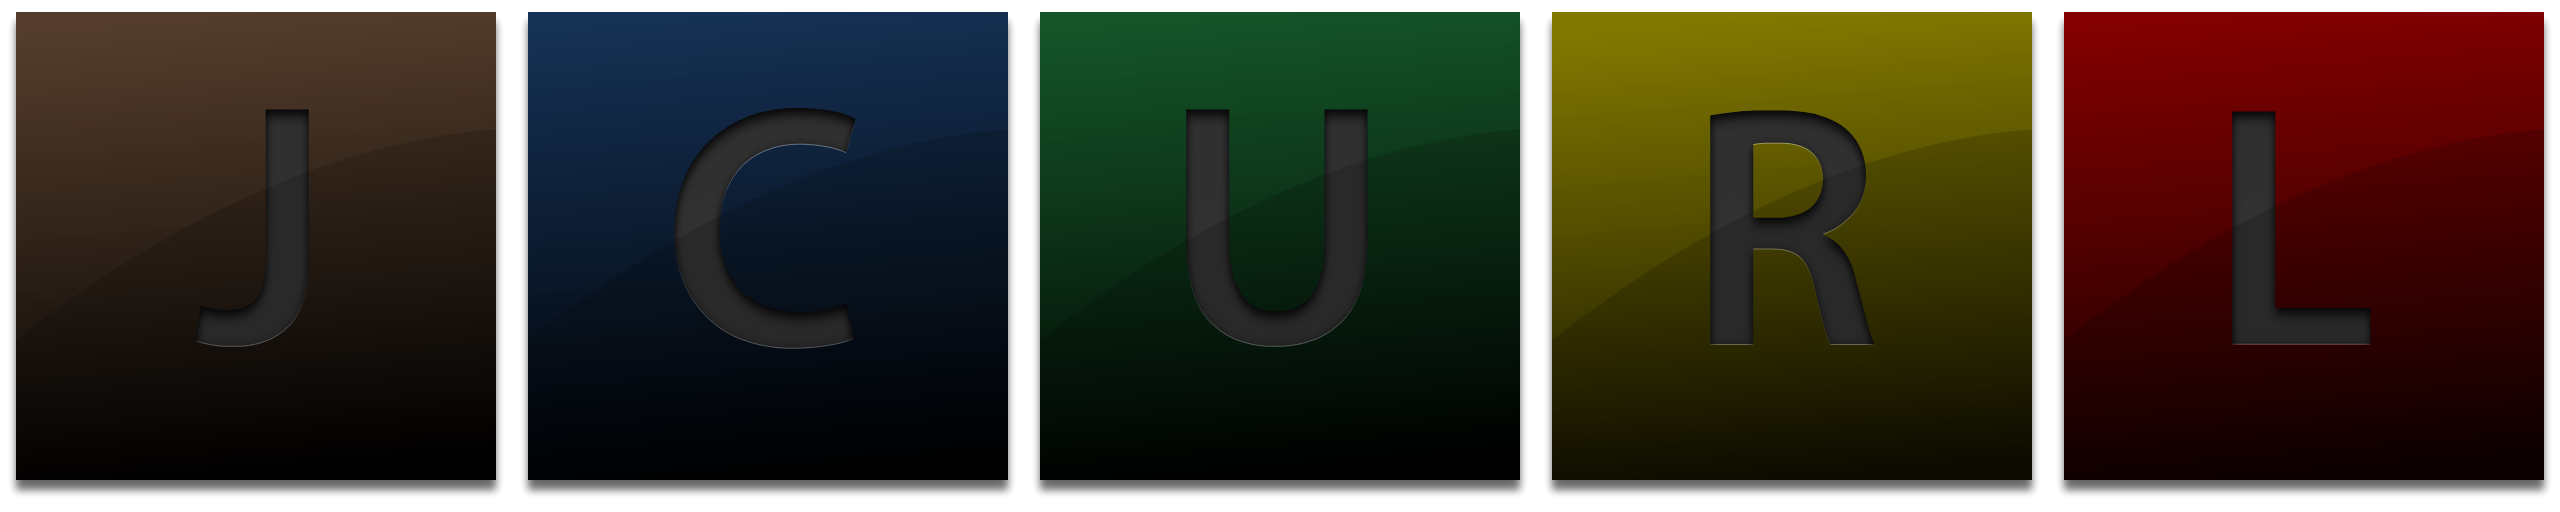
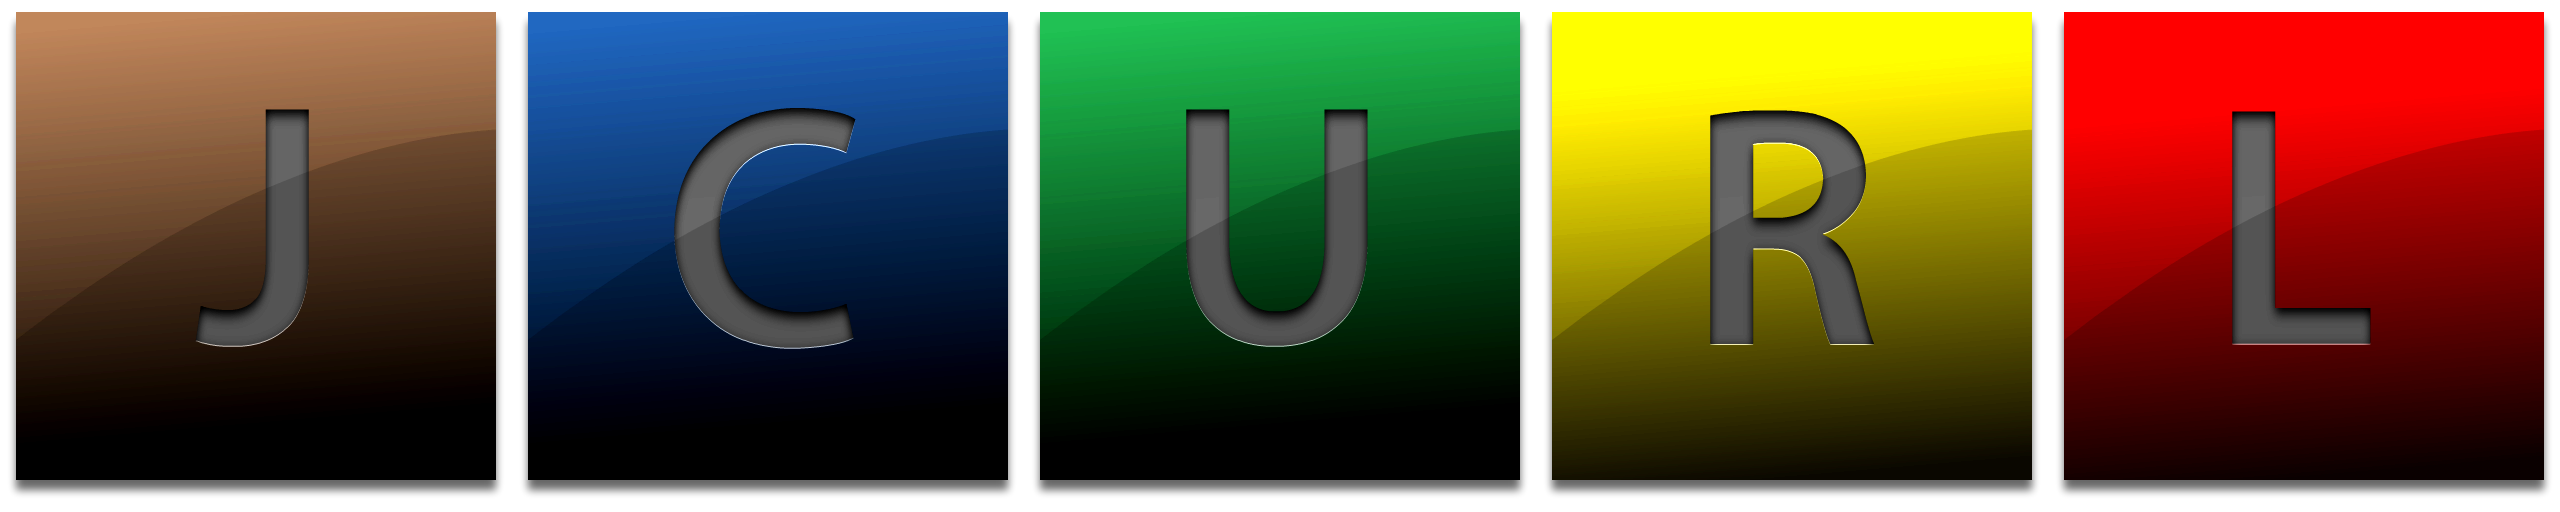
updated rarity, unit.py and fonts fixed

diff --git a/unit.py b/unit.py
@@ -10,8 +10,152 @@ import globals
 from timer import *
 from util import *
 
+class attribute(object):
+    
+    def __init__(self, owner, base=100, bonus=0):
+
+        self.owner = owner;
+        self.m_base = int(base);
+        self.m_bonus = int(bonus);
+
+    def get(self):
+
+        return self.m_base+self.m_bonus
+
+    def add(self, bonus):
+        
+        self.m_bonus += int(bonus)
+
+    def reset(self):
+
+        self.m_bonus = 0
+
+    def __str__(self):
+
+        return str(self.get());
+
+
 class Unit(object):
 
-	def __init__(self, health = 100):
+    def __init__(self, health = 0, armour = 0, movement_speed = 0, attack_damage = 0, attack_speed = 0):
 
-		self.health = health
+        self.m_health = attribute(self,health)
+        self.m_armour = attribute(self,armour)
+        self.m_movement_speed = attribute(self,movement_speed)
+        self.m_attack_damage = attribute(self,attack_damage)
+        self.m_attack_speed = attribute(self,attack_speed)
+
+    def change(self, health = None, armour = None, movement_speed = None, attack_damage = None, attack_speed = None):
+
+        if(health != None):
+            self.m_health = attribute(self,health)
+
+        if(armour != None):
+            self.m_armour = attribute(self,armour)
+
+        if(movement_speed != None):
+            self.m_movement_speed = attribute(self,movement_speed)
+
+        if(attack_damage != None):
+            self.m_attack_damage = attribute(self,attack_damage)
+
+        if(attack_speed != None):
+            self.m_attack_speed = attribute(self,attack_speed)
+
+    def get(self, attribute):
+
+        total = 0
+
+        if(attribute == "health"):
+
+            return self.m_health.get()
+
+        elif(attribute == "armour"):
+
+            return self.m_armour.get()
+
+        elif(attribute == "movement_speed"):
+
+            return self.m_movement_speed.get()
+
+        elif(attribute == "attack_damage"):
+
+            return self.m_attack_damage.get()
+
+        elif(attribute == "attack_speed"):
+
+            return self.m_attack_speed.get()
+ 
+    def __str__(self):
+
+        string = "HP: "+str(self.m_health)
+        string += "/"+str(self.m_armour)
+        string += "\t\tSpeed: "+str(self.m_movement_speed)+"%"
+        string += "\t\tAttack: "+str(self.m_attack_damage)+"/"+str(self.m_attack_speed)+"%"
+        return string
+
+class Actor_Unit(Unit):
+
+    def __init__(self, health = 100, armour = 8, movement_speed = 100, attack_damage = 39, attack_speed = 100):
+
+        Unit.__init__(self, health, armour, movement_speed, attack_damage, attack_speed)
+
+        self.m_bonus = []
+        self.m_current_health = self.get("health")
+
+    def append(self, unit):
+
+        self.m_bonus.append(unit)
+        self.recalc_bonus()
+
+    def reset(self):
+
+        self.m_bonus = []
+        self.recalc_bonus()
+
+    def recalc_bonus(self):
+
+        self.m_health.reset()
+        self.m_armour.reset()
+        self.m_movement_speed.reset()
+        self.m_attack_damage.reset()
+        self.m_attack_speed.reset()
+
+        for bonus in self.m_bonus:
+            self.m_health.add(bonus.get("health"))
+            self.m_armour.add(bonus.get("armour"))
+            self.m_movement_speed.add(bonus.get("movement_speed"))
+            self.m_attack_damage.add(bonus.get("attack_damage"))
+            self.m_attack_speed.add(bonus.get("attack_speed"))
+
+    def calc_damage(self, source_unit, mult=1.0):
+
+        base_damage = source_unit.get("attack_damage")
+        damage = random.uniform(base_damage*19.0,base_damage*21.0)/20
+        damage *= mult
+        damage = int(max( damage - self.get("armour"), 0))
+        self.m_current_health = max(self.m_current_health-damage,0)
+        return damage
+
+
+player = Actor_Unit()
+player2 = Actor_Unit(armour = 11)
+print player2
+
+generic_nme  = Actor_Unit( 80, 8,100, 40,100)
+knight       = Actor_Unit(115,14, 70, 40, 80)
+warden       = Actor_Unit(100,10, 90, 40,100)
+zealot       = Actor_Unit( 90, 8, 90, 44,110)
+savage       = Actor_Unit(100, 4, 90, 49,120)
+friar        = Actor_Unit(150, 6, 70, 28,120)
+warlock      = Actor_Unit(100, 6, 80, 61, 80)
+ranger       = Actor_Unit(80 , 8,110, 40,110)
+source_unit  = Actor_Unit(100, 6,115, 47, 80)
+
+for i in range(0,5):
+
+    player1 = knight
+    player2 = zealot
+    
+    print "1->2:",player2.calc_damage(player1), "\t\tHP:", player2.m_current_health,"\t\t",
+    print "2->1:",player1.calc_damage(player2), "\t\tHP:", player1.m_current_health

diff --git a/globals.py b/globals.py
@@ -33,11 +33,11 @@ window_surface = None
 global basic_font
 basic_font = []
 for i in range (0, 12):
-    basic_font.append(pygame.font.SysFont("Motorwerk", i*7+12))
+    basic_font.append(pygame.font.SysFont("twcencondensed", i*7+12))
 global heavy_font
 heavy_font = []
 for i in range (0, 12):
-    heavy_font.append(pygame.font.SysFont("Motorwerk", i*7+12))
+    heavy_font.append(pygame.font.SysFont("twcen", i*7+12))
 
 global current_screen
 current_screen = 0

diff --git a/util.py b/util.py
@@ -12,3 +12,5 @@ def random_icon():
 	
 	return "Assets/Game-Icons/"+globals.icon_list[random.randint(0,len(globals.icon_list)-1)]
 
+
+#print pygame.font.get_fonts()
